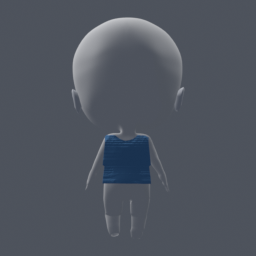
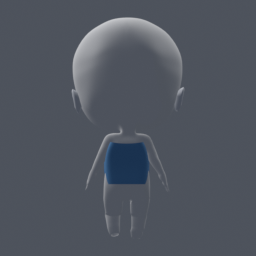
生成独立无袖渲染衣片并接入代理动画

Changed region(s): [[0.375, 0.5312, 0.5938, 0.7188]]

diff --git a/prototype/preview/clothes_gallery.html b/prototype/preview/clothes_gallery.html
@@ -47,8 +47,8 @@
   </section>
 
   <section class="panel">
-    <h2>当前实验：Physics Proxy + Render Garment</h2>
-    <p class="status">当前：复用已通过物理门禁的 GarmentCode 结果作为 Physics Proxy，仅给独立 Render Garment 应用一级细分，并用 Surface Deform 跟随代理。Proxy 17,306 顶点、Render Garment 102,670 顶点；4 方向 × 8 帧已渲染。仍需审核背部条带和衣身边界，下一次实验将覆盖本目录。</p>
+    <h2>当前实验：Clean Render Garment + Physics Proxy</h2>
+    <p class="status">当前：保留已通过物理门禁的 GarmentCode 结果作为 Physics Proxy，独立生成规则四边面无袖 Render Garment（U 型领口、肩带、侧缝、下摆），再通过 Surface Deform 跟随 5,369 顶点 Animation Proxy。背部条带已消除；仍需审核领口比例、肩带宽度和动作帧，下一次实验将覆盖本目录。</p>
     <figure><img src="assets/clothes_gallery/garmentcode_actor_proxy_current/4way_8frames.png" alt="Physics proxy and render garment current experiment"><figcaption>front / right / back / left × 8 frames</figcaption></figure>
     <div class="grid" style="margin-top:12px">
       <figure><img src="assets/clothes_gallery/garmentcode_actor_proxy_current/front_00.png" alt="Current front"><figcaption>front</figcaption></figure>

diff --git a/tools/blender/build_garment_proxy_render_pair.py b/tools/blender/build_garment_proxy_render_pair.py
@@ -19,7 +19,7 @@ import sys
 from pathlib import Path
 
 import bpy
-from mathutils import Vector
+from mathutils import Matrix, Vector
 
 TOOLS_DIR = Path(__file__).resolve().parent
 if str(TOOLS_DIR) not in sys.path:
@@ -41,6 +41,13 @@ def cli_args() -> argparse.Namespace:
     parser.add_argument("--proxy-name", default="GarmentCodeShirt_ActorTransfer")
     parser.add_argument("--resolution", type=int, default=256)
     parser.add_argument("--subdivision-level", type=int, default=1)
+    parser.add_argument("--clean-render-surface", action="store_true")
+    parser.add_argument("--render-surface-clearance", type=float, default=0.035)
+    parser.add_argument("--build-clean-render-garment", action="store_true")
+    parser.add_argument("--clean-animation-proxy", action="store_true")
+    parser.add_argument("--animation-proxy-smooth-iterations", type=int, default=6)
+    parser.add_argument("--animation-proxy-smooth-factor", type=float, default=0.35)
+    parser.add_argument("--animation-proxy-decimate-ratio", type=float, default=0.30)
     return parser.parse_args(argv)
 
 
@@ -63,6 +70,51 @@ def apply_render_subdivision(obj: bpy.types.Object, level: int) -> dict[str, int
     return {"before_vertices": before, "after_vertices": len(obj.data.vertices), "level": level}
 
 
+def apply_animation_proxy_cleanup(
+    obj: bpy.types.Object,
+    armature: bpy.types.Object,
+    smooth_iterations: int,
+    smooth_factor: float,
+    decimate_ratio: float,
+) -> dict[str, object]:
+    if smooth_iterations < 0 or not 0.0 < smooth_factor <= 1.0:
+        raise RuntimeError("invalid animation proxy smoothing parameters")
+    if not 0.0 < decimate_ratio <= 1.0:
+        raise RuntimeError("animation proxy decimate ratio must be in (0, 1]")
+    before = len(obj.data.vertices)
+    for modifier in list(obj.modifiers):
+        obj.modifiers.remove(modifier)
+    if smooth_iterations > 0:
+        smooth = obj.modifiers.new("AnimationProxySurfaceSmoothing", "SMOOTH")
+        smooth.factor = smooth_factor
+        smooth.iterations = smooth_iterations
+        bpy.ops.object.select_all(action="DESELECT")
+        bpy.context.view_layer.objects.active = obj
+        obj.select_set(True)
+        bpy.ops.object.modifier_apply(modifier=smooth.name)
+        obj.select_set(False)
+    decimate = obj.modifiers.new("AnimationProxyDecimate", "DECIMATE")
+    decimate.decimate_type = "COLLAPSE"
+    decimate.ratio = decimate_ratio
+    bpy.ops.object.select_all(action="DESELECT")
+    bpy.context.view_layer.objects.active = obj
+    obj.select_set(True)
+    bpy.ops.object.modifier_apply(modifier=decimate.name)
+    obj.select_set(False)
+    armature_modifier = obj.modifiers.new("AnimationProxyArmatureDeform", "ARMATURE")
+    armature_modifier.object = armature
+    obj.data.update()
+    return {
+        "enabled": True,
+        "before_vertices": before,
+        "after_vertices": len(obj.data.vertices),
+        "smooth_iterations": smooth_iterations,
+        "smooth_factor": smooth_factor,
+        "decimate_ratio": decimate_ratio,
+        "armature_modifier": armature_modifier.name,
+    }
+
+
 def bind_surface_deform(render_garment: bpy.types.Object, proxy: bpy.types.Object) -> dict[str, object]:
     modifier = render_garment.modifiers.new("SurfaceDeformFromPhysicsProxy", "SURFACE_DEFORM")
     modifier.target = proxy
@@ -80,6 +132,177 @@ def bind_surface_deform(render_garment: bpy.types.Object, proxy: bpy.types.Objec
         "target": proxy.name,
         "strength": modifier.strength,
         "bound": bool(modifier.is_bound),
+    }
+
+
+def evaluated_world_points(obj: bpy.types.Object) -> list[Vector]:
+    depsgraph = bpy.context.evaluated_depsgraph_get()
+    evaluated = obj.evaluated_get(depsgraph)
+    mesh = evaluated.to_mesh()
+    try:
+        return [evaluated.matrix_world @ vertex.co for vertex in mesh.vertices]
+    finally:
+        evaluated.to_mesh_clear()
+
+
+def interpolation_samples(points: list[Vector], axis: str, step: float) -> list[tuple[float, float, float]]:
+    if not points:
+        raise RuntimeError("cannot build render surface envelope from an empty mesh")
+    axis_index = {"x": 0, "y": 1, "z": 2}[axis]
+    bins: dict[int, list[float]] = {}
+    for point in points:
+        key = round(float(point.z) / step)
+        bins.setdefault(key, []).append(float(point[axis_index]))
+    result = []
+    for key in sorted(bins):
+        values = sorted(bins[key])
+        result.append((key * step, values[0], values[-1]))
+    return result
+
+
+def interpolate_envelope(samples: list[tuple[float, float, float]], z: float) -> tuple[float, float]:
+    if z <= samples[0][0]:
+        return samples[0][1], samples[0][2]
+    if z >= samples[-1][0]:
+        return samples[-1][1], samples[-1][2]
+    for lower, upper in zip(samples, samples[1:]):
+        if lower[0] <= z <= upper[0]:
+            span = max(upper[0] - lower[0], 1e-6)
+            t = (z - lower[0]) / span
+            return (
+                lower[1] + (upper[1] - lower[1]) * t,
+                lower[2] + (upper[2] - lower[2]) * t,
+            )
+    return samples[-1][1], samples[-1][2]
+
+
+def torso_depth_envelope(actor: bpy.types.Object, step: float = 0.025) -> list[tuple[float, float, float]]:
+    points = evaluated_world_points(actor)
+    if not points:
+        raise RuntimeError("Actor has no evaluated points for render surface")
+    low = min(point.z for point in points)
+    high = max(point.z for point in points)
+    samples: list[tuple[float, float, float]] = []
+    for index in range(round((high - low) / step) + 1):
+        z = low + index * step
+        torso = [point for point in points if abs(point.z - z) <= step * 0.8 and abs(point.x) <= 0.21]
+        if len(torso) < 8:
+            torso = [point for point in points if abs(point.z - z) <= step * 1.2 and abs(point.x) <= 0.27]
+        if torso:
+            samples.append((z, min(point.y for point in torso), max(point.y for point in torso)))
+    if len(samples) < 3:
+        raise RuntimeError("Actor torso depth envelope has too few samples")
+    return samples
+
+
+def build_clean_render_surface(
+    render_garment: bpy.types.Object,
+    proxy: bpy.types.Object,
+    actor: bpy.types.Object,
+    clearance: float,
+) -> dict[str, object]:
+    source_points = evaluated_world_points(proxy)
+    source_samples = interpolation_samples(source_points, "y", 0.025)
+    actor_samples = torso_depth_envelope(actor)
+    inverse = render_garment.matrix_world.inverted()
+    changed = 0
+    for vertex in render_garment.data.vertices:
+        world = render_garment.matrix_world @ vertex.co
+        source_front, source_back = interpolate_envelope(source_samples, world.z)
+        source_half = max((source_back - source_front) * 0.5, 1e-4)
+        source_mid = (source_front + source_back) * 0.5
+        depth_ratio = max(-1.0, min(1.0, (world.y - source_mid) / source_half))
+        actor_front, actor_back = interpolate_envelope(actor_samples, world.z)
+        actor_half = max((actor_back - actor_front) * 0.5 + clearance, 1e-4)
+        actor_mid = (actor_front + actor_back) * 0.5
+        world.y = actor_mid + depth_ratio * actor_half
+        vertex.co = inverse @ world
+        changed += 1
+    render_garment.data.update()
+    return {
+        "enabled": True,
+        "changed_vertices": changed,
+        "clearance": clearance,
+        "method": "source_depth_ratio_to_actor_torso_envelope_preserving_xy_boundary_topology",
+        "sample_step": 0.025,
+    }
+
+
+def build_clean_tank_render_mesh(
+    render_garment: bpy.types.Object,
+    actor: bpy.types.Object,
+    proxy: bpy.types.Object,
+    clearance: float,
+) -> dict[str, object]:
+    """Replace the sim-folded render copy with a clean quad tank-top shell."""
+    samples = torso_depth_envelope(actor)
+    z_rows = [0.766, 0.820, 0.950, 1.105, 1.190, 1.285, 1.355]
+    half_widths = [0.270, 0.295, 0.315, 0.315, 0.300, 0.275, 0.240]
+    x_profile = (-1.0, -0.68, -0.34, 0.34, 0.68, 1.0)
+    vertices: list[tuple[float, float, float]] = []
+    faces: list[tuple[int, int, int, int]] = []
+
+    def depth_at(z: float) -> tuple[float, float]:
+        front, back = interpolate_envelope(samples, z)
+        return front - clearance, back + clearance
+
+    def add_panel(back: bool) -> list[list[int]]:
+        rows: list[list[int]] = []
+        for row, (z, width) in enumerate(zip(z_rows, half_widths)):
+            front, rear = depth_at(z)
+            y = rear if back else front
+            row_profile = x_profile
+            if not back and row >= 4:
+                opening_half = (0.26, 0.40, 0.48)[min(row - 4, 2)]
+                row_profile = (-1.0, -0.68, -opening_half, opening_half, 0.68, 1.0)
+            row_indices: list[int] = []
+            for normalized_x in row_profile:
+                local_z = z
+                if back and row == len(z_rows) - 1:
+                    # A shallow rear neckline keeps the back edge below the neck
+                    # while preserving the shoulder strap endpoints.
+                    local_z -= 0.035 * (1.0 - abs(normalized_x))
+                row_indices.append(len(vertices))
+                vertices.append((normalized_x * width, y, local_z))
+            rows.append(row_indices)
+        for row in range(len(rows) - 1):
+            for column in range(len(x_profile) - 1):
+                # Leave a real U-shaped front neckline between the two
+                # shoulder straps above the chest row.
+                if not back and column == 2 and row >= 3:
+                    continue
+                a, b = rows[row][column], rows[row][column + 1]
+                c, d = rows[row + 1][column + 1], rows[row + 1][column]
+                faces.append((a, b, c, d))
+        return rows
+
+    front_rows = add_panel(back=False)
+    back_rows = add_panel(back=True)
+    for row in range(len(z_rows) - 1):
+        faces.append((front_rows[row][0], back_rows[row][0], back_rows[row + 1][0], front_rows[row + 1][0]))
+        faces.append((front_rows[row][5], front_rows[row + 1][5], back_rows[row + 1][5], back_rows[row][5]))
+
+    mesh = bpy.data.meshes.new("GarmentCodeCleanTankRenderMesh")
+    mesh.from_pydata(vertices, [], faces)
+    mesh.update()
+    old_mesh = render_garment.data
+    render_garment.data = mesh
+    if old_mesh.users == 0:
+        bpy.data.meshes.remove(old_mesh)
+    if proxy.data.materials:
+        render_garment.data.materials.append(proxy.data.materials[0])
+    # The generated vertices are already in Actor world coordinates.  Do not
+    # inherit the imported OBJ's scale/rotation transform from the proxy.
+    render_garment.matrix_world = Matrix.Identity(4)
+    return {
+        "enabled": True,
+        "method": "procedural_clean_quad_tank_top_from_actor_torso_depth_envelope",
+        "vertices": len(vertices),
+        "faces": len(faces),
+        "z_rows": z_rows,
+        "half_widths": half_widths,
+        "clearance": clearance,
+        "neckline": "front_u_opening_back_shallow_scoop",
     }
 
 
@@ -139,6 +362,22 @@ def main() -> int:
     proxy.hide_render = True
     proxy.display_type = "WIRE"
 
+    armature = bpy.data.objects.get("Armature")
+    if armature is None:
+        raise RuntimeError("input blend is missing Armature")
+
+    animation_proxy = proxy.copy()
+    animation_proxy.data = proxy.data.copy()
+    animation_proxy.name = "GarmentCodeShirt_AnimationProxy"
+    animation_proxy["assetslab_role"] = "animation_deform_proxy"
+    animation_proxy["assetslab_source"] = proxy.name
+    animation_proxy.parent = None
+    animation_proxy.matrix_world = proxy.matrix_world.copy()
+    animation_proxy.hide_render = True
+    animation_proxy.hide_viewport = False
+    animation_proxy.display_type = "WIRE"
+    scene.collection.objects.link(animation_proxy)
+
     render_garment = proxy.copy()
     render_garment.data = proxy.data.copy()
     render_garment.name = "GarmentCodeShirt_RenderGarment"
@@ -153,8 +392,42 @@ def main() -> int:
     for modifier in list(render_garment.modifiers):
         render_garment.modifiers.remove(modifier)
 
+    actor = bpy.data.objects.get("ChibiBaseMesh_AccuRIG_InputMesh")
+    if actor is None:
+        raise RuntimeError("input blend is missing Actor mesh")
+    clean_render_garment = (
+        build_clean_tank_render_mesh(
+            render_garment,
+            actor,
+            proxy,
+            options.render_surface_clearance,
+        )
+        if options.build_clean_render_garment
+        else {"enabled": False}
+    )
+    clean_surface = (
+        build_clean_render_surface(
+            render_garment,
+            proxy,
+            actor,
+            options.render_surface_clearance,
+        )
+        if options.clean_render_surface
+        else {"enabled": False}
+    )
+    animation_cleanup = (
+        apply_animation_proxy_cleanup(
+            animation_proxy,
+            armature,
+            options.animation_proxy_smooth_iterations,
+            options.animation_proxy_smooth_factor,
+            options.animation_proxy_decimate_ratio,
+        )
+        if options.clean_animation_proxy
+        else {"enabled": False, "vertex_count": len(animation_proxy.data.vertices)}
+    )
     subdivision = apply_render_subdivision(render_garment, options.subdivision_level)
-    surface_deform = bind_surface_deform(render_garment, proxy)
+    surface_deform = bind_surface_deform(render_garment, animation_proxy)
     bpy.context.view_layer.update()
 
     scene["assetslab_garment_proxy_render_pair_status"] = "review_required"
@@ -171,9 +444,16 @@ def main() -> int:
             "armature_modifier": next(modifier.name for modifier in proxy.modifiers if modifier.type == "ARMATURE"),
             "hide_render": proxy.hide_render,
         },
+        "animation_proxy": {
+            "object": animation_proxy.name,
+            "cleanup": animation_cleanup,
+            "hide_render": animation_proxy.hide_render,
+        },
         "render_garment": {
             "object": render_garment.name,
             "vertex_count": len(render_garment.data.vertices),
+            "clean_render_garment": clean_render_garment,
+            "clean_surface": clean_surface,
             "subdivision": subdivision,
             "surface_deform": surface_deform,
             "armature_modifier": any(modifier.type == "ARMATURE" for modifier in render_garment.modifiers),

diff --git a/tools/build_preview_assets.py b/tools/build_preview_assets.py
@@ -168,10 +168,10 @@ CLOTHING_REVIEW_CANDIDATES = (
     },
     {
         "slug": "garmentcode_actor_proxy_current",
-        "label": "当前实验 / Physics proxy + Render Garment",
+        "label": "当前实验 / Clean Render Garment + Physics Proxy",
         "root": ROOT / "prototype/test_output/garmentcode_proxy_render_pair_current",
         "status": "当前实验",
-        "note": "物理代理保留 Actor Armature，渲染服装应用一级细分并通过 Surface Deform 跟随代理；4 方向 × 8 帧已渲染，仍需审核背部条带和衣身边界。下一次实验会覆盖它。",
+        "note": "保留 GarmentCode 物理代理，独立生成规则四边面无袖 Render Garment（U 型领口、肩带、侧缝、下摆），再通过 Surface Deform 跟随 5,369 顶点 Animation Proxy；条带已消除，仍需审核领口比例和动作帧。下一次实验会覆盖它。",
     },
 )
 

diff --git a/docs/GARMENTCODE_OFFICIAL_ACTOR_TRANSFER_2026-08-06.md b/docs/GARMENTCODE_OFFICIAL_ACTOR_TRANSFER_2026-08-06.md
@@ -360,3 +360,18 @@ route is to author or generate a separate smooth render garment with explicit
 neckline, shoulder-strap, armhole, and hem boundaries, then bind that clean
 mesh to the existing Physics Proxy. The Proxy/Render split remains useful, but
 the current source mesh is not a suitable render source.
+
+## Clean render garment prototype (2026-08-06)
+
+The first independent render garment now uses a small regular quad shell rather
+than the GarmentCode sim topology. It is derived from the Actor torso depth
+envelope with `0.035 m` clearance and explicit front U-neck, shallow rear
+neckline, shoulder-strap, side-seam, and hem boundaries. The render mesh is
+subdivided to 306 vertices and has no Armature modifier. A separate cleaned
+Animation Proxy is reduced from 17,306 to 5,369 vertices and keeps the Actor
+Armature modifier; the Render Garment is bound to it with Surface Deform.
+
+The 4-direction × 8-frame render removes the previous horizontal back bands and
+keeps the garment visible through the walk samples. This is a current review
+candidate, not a final clothing seed: the neckline is intentionally simple and
+still needs visual approval for shoulder-strap width and chibi proportions.

diff --git a/docs/CLOTHES_EXPERIMENT_WORKFLOW.md b/docs/CLOTHES_EXPERIMENT_WORKFLOW.md
@@ -225,3 +225,9 @@ specification，便于物理门禁和视觉审核分别定位问题。
 不能继续把修饰器叠加到当前 sim 网格上；下一阶段必须单独生成干净的 Render
 Garment 版型，再让它通过 Surface Deform 跟随 Physics Proxy。失败诊断不会覆盖
 Gallery current，也不会改变已经通过物理门禁的代理。
+
+本轮 A 方案已完成首个可审核样例：`build_garment_proxy_render_pair.py` 生成
+规则四边面无袖 Render Garment，前片保留 U 型领口，后片保留浅领口，肩带、侧缝
+和下摆使用独立边界；Physics Proxy 保留 17,306 顶点，Animation Proxy 另行平滑
+降面到 5,369 顶点，Render Garment 细分后为 306 个顶点。当前 4 方向 × 8 帧通过
+后台渲染，背部条带消失，状态为 `review_required`，尚未进入 milestone。
